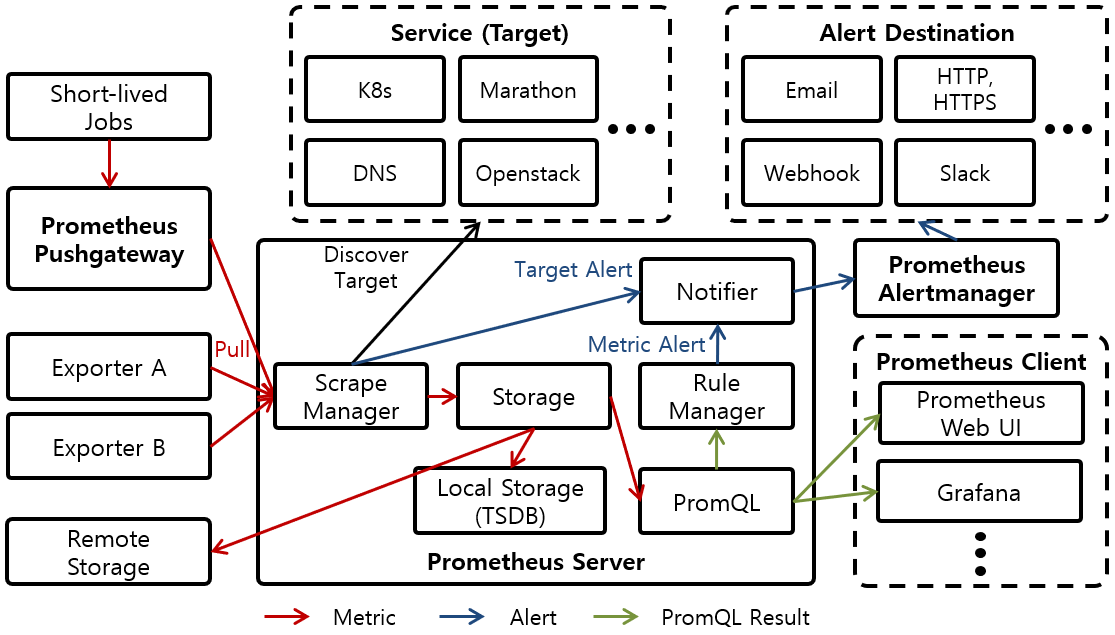
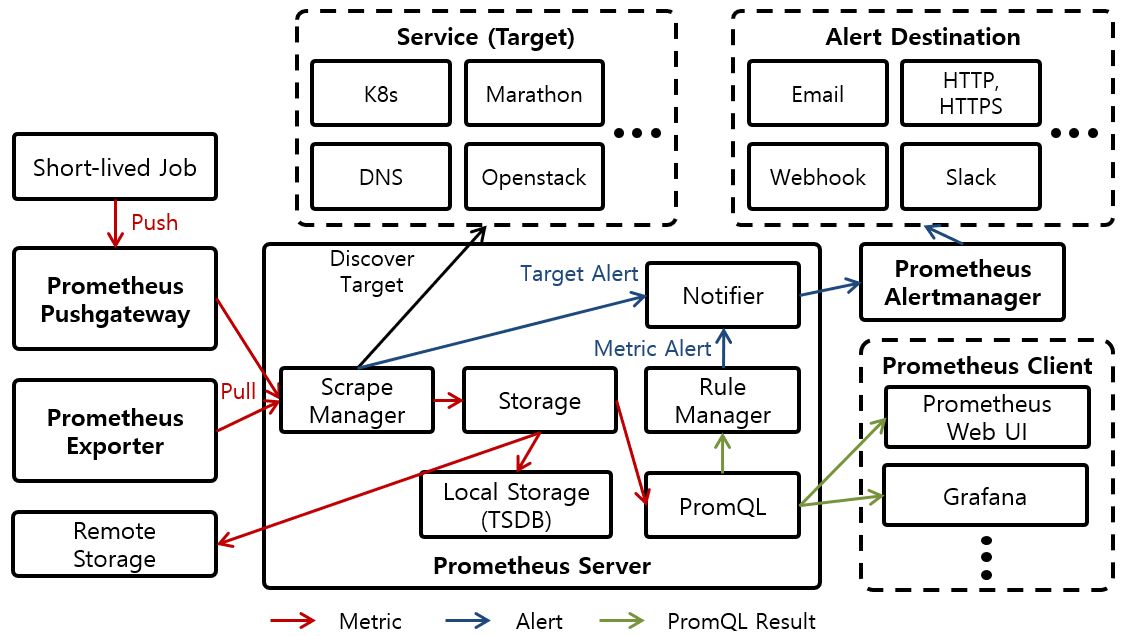
Update

Changed region(s): [[0.0, 0.0, 1.0, 0.9276], [0.3964, 0.9575, 0.7318, 1.0], [0.2439, 0.9575, 0.3659, 0.9874]]

diff --git a/_docs/theory_analysis/Prometheus_Architecture.md b/_docs/theory_analysis/Prometheus_Architecture.md
@@ -13,6 +13,10 @@ Prometheus의 Architecture를 분석한다.
 
 ![[그림 1] Prometheus Architecture]({{site.baseurl}}/images/theory_analysis/Prometheus_Architecture/Prometheus_Architecture.PNG){: width="750px"}
 
+[그림 1]은 Prometheus Architecture를 나타내고 있다. Prometheus는 크게 Server, Exporter, Alertmanager, Pushgateway로 구성되어 있다. Exporter는 Metric 정보를 **수집**하고 **Aggregate**하는 역활을 수행한다. 하나의 Server에 다수의 Exporter를 연동하여 이용할 수 있다. 일반적으로 Exporter는 용도별로 구분된다. 예를들어 Node Exporter는 특정 Node의 Metric 정보를 수집하는 역활을 수행한다. MySQL Exporter는 특정 MySQL DB의 Metric 정보를 수집하는 역활을 수행한다.
+
+Exporter가 수집하고 Aggregate한 Metric정보는 Exporter에 의해서 먼져 Server에게 Push하는 방식이 아닌, Server에서 먼져 Exporter로부터 **Pull**하는 방식을 이용한다. 즉 모든 Metric 정보는 Exporter가 아닌 Server가 중심이 되어 수집된다. 이러한 Server 중심의 Metric 수집 방식은 Server 스스로 Metric 수집에 의한 부하를 조절할 수 있는 큰 장점을 갖게 된다. Exporter의 개수가 많아져 수집할 Metric의 양이 증가할 경우, Server가 각 Exporter의 Metric을 Pull하는 주기를 능동적으로 늘릴 수 있기 때문이다. 하지만 Pull 방식은 Event를 기록하기에는 적합한 방식은 아니다. Event가 발생하여 Exporter에 저장되어도 Server에 전달되는 시점은 Event와 관계없는 Server의 Metric 수집 주기에 의해서 결정되기 때문이다.
+
 ### 2. 참조
 
 * [https://github.com/prometheus/prometheus](https://github.com/prometheus/prometheus)
